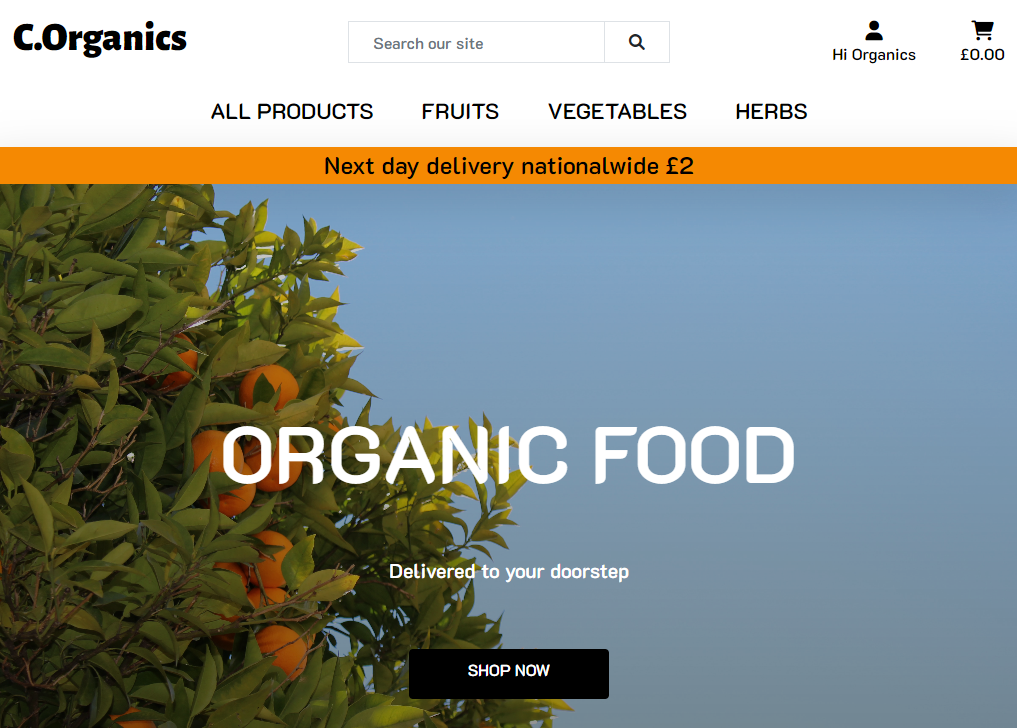
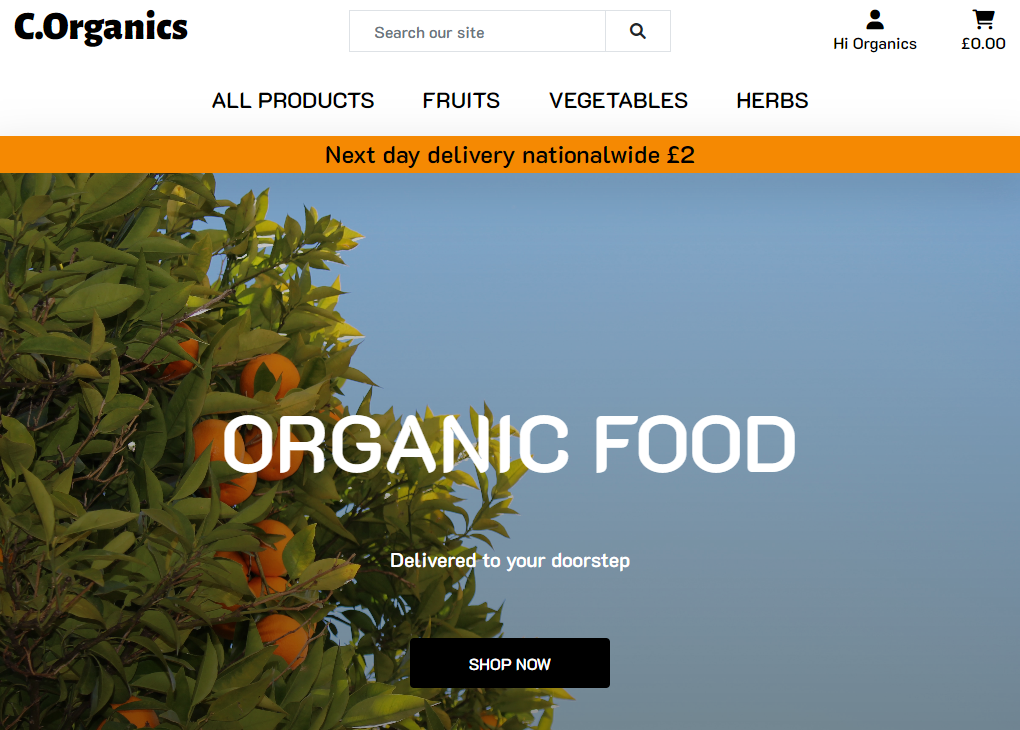
Fix center shop now btn text

diff --git a/home/templates/home/index.html b/home/templates/home/index.html
@@ -14,7 +14,7 @@
         <p>Delivered to your doorstep</p>
       </div>
       <div class="row justify-content-center">
-        <a class="btn btn-black mt-5 pt-2" href="{% url 'products' %}">SHOP NOW</a>
+        <a class="btn btn-black btn-shop mt-5" href="{% url 'products' %}">SHOP NOW</a>
       </div>
     </div>
   </div>

diff --git a/static/css/style.css b/static/css/style.css
@@ -234,7 +234,9 @@ a[data-toggle="collapse"] {
   width: 200px;
   height: 50px;
 }
-
+.btn-shop {
+  padding-top: 13px;
+} 
 /* --------  END CSS FOR THE INDEX PAGE ---------*/
 
 /* --------  CSS PRODUCT DETAILS PAGE ---------*/
